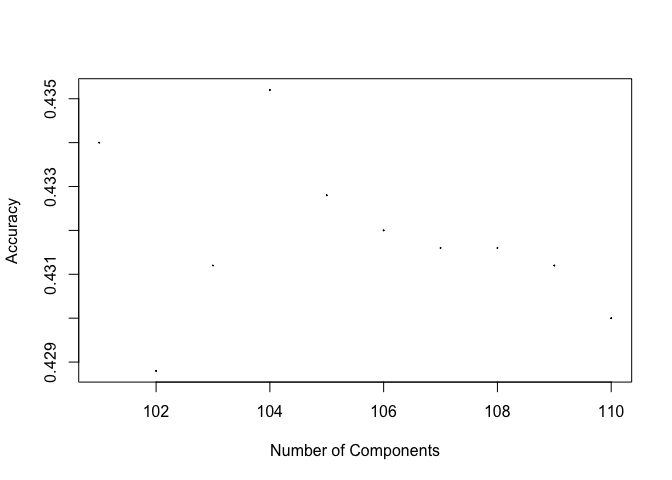
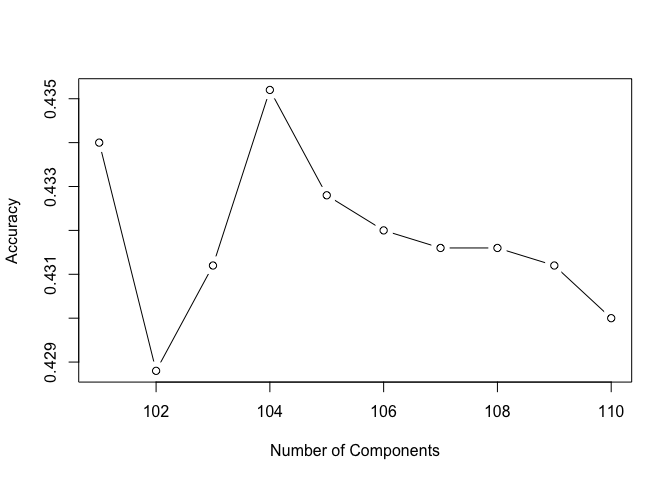
first

diff --git a/AuthorAttrition_Bruce.md b/AuthorAttrition_Bruce.md
@@ -77,7 +77,7 @@ components in PCA, we have further increased our accuracy to 50.12%
       X_test = pca$x[, 1:i]
       acc = append(acc, test(X_test))
     }
-    plot(pca_list, acc, pch=19, cex=0.1, ylab='Accuracy', xlab='Number of Components')
+    plot(pca_list, acc, type='b', ylab='Accuracy', xlab='Number of Components')
 
 ![](AuthorAttrition_Bruce_files/figure-markdown_strict/pca_-1.png)
 
